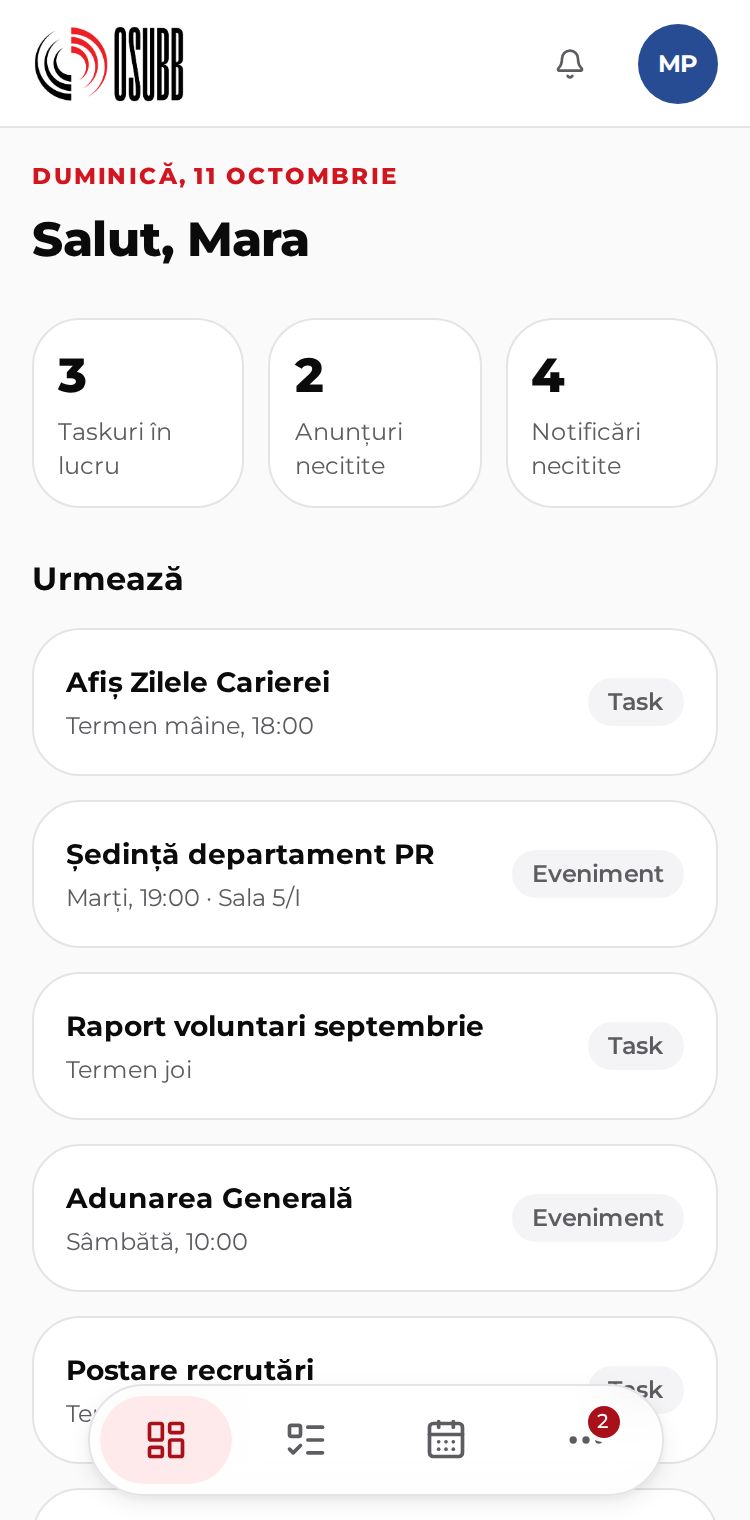
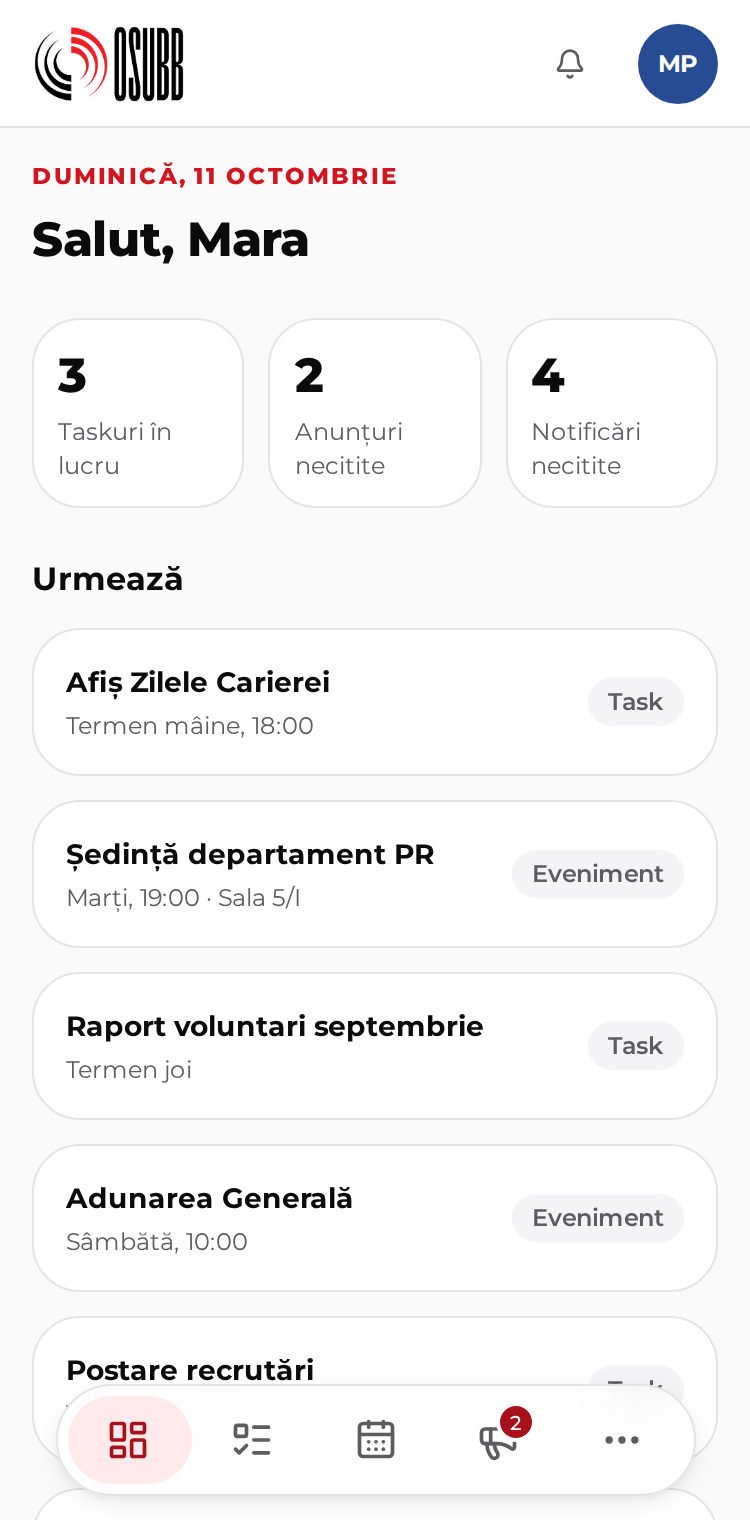
feat(app): Anunțuri keeps its place on a phone's bar
The bar is Acasă, Taskuri, Calendar, Anunțuri and Mai mult: what a member
reads stays one tap away, with its unread count on its own icon. The drawer
holds Grupuri and what the member's capabilities add. The capsule loses its
gaps so five 44 px places and the plus fit a 320 px phone.

diff --git a/app/src/components/shell/AppShell.test.tsx b/app/src/components/shell/AppShell.test.tsx
@@ -159,7 +159,7 @@ describe('AppShell', () => {
     ).toBeNull();
 
     const quick = screen.getByRole('navigation', { name: 'Navigare rapidă' });
-    expect(within(quick).getAllByRole('link')).toHaveLength(3);
+    expect(within(quick).getAllByRole('link')).toHaveLength(4);
     expect(
       within(primary).getByRole('link', { name: 'Calendar' }),
     ).toHaveAttribute('aria-current', 'page');
@@ -228,7 +228,7 @@ describe('AppShell', () => {
     ).toBeInTheDocument();
   });
 
-  it('badges Anunțuri with the unread-announcements count on the sidebar and, on a phone, on Mai mult', () => {
+  it('badges Anunțuri with the unread-announcements count on the sidebar and the mobile tab', () => {
     queries.useUnreadAnnouncementsCount.mockReturnValue({ data: 2 });
 
     renderShell();
@@ -241,12 +241,15 @@ describe('AppShell', () => {
     expect(within(entry).getByText('2 anunțuri necitite')).toBeInTheDocument();
 
     const quick = screen.getByRole('navigation', { name: 'Navigare rapidă' });
-    // Anunțuri is behind Mai mult, which carries its count.
+    const tab = within(quick).getByRole('link', {
+      name: 'Anunțuri, 2 anunțuri necitite',
+    });
+    expect(tab).toHaveAttribute('href', '/anunturi');
+    expect(tab).toHaveTextContent('2');
+    // Mai mult counts only the pages behind it.
     expect(
-      within(quick).getByRole('button', {
-        name: 'Mai mult, 2 anunțuri necitite',
-      }),
-    ).toHaveTextContent('2');
+      within(quick).getByRole('button', { name: 'Mai mult' }),
+    ).toHaveTextContent(/^Mai mult$/);
   });
 
   it('says a single unread Announcement in the singular', () => {
@@ -256,9 +259,7 @@ describe('AppShell', () => {
 
     const quick = screen.getByRole('navigation', { name: 'Navigare rapidă' });
     expect(
-      within(quick).getByRole('button', {
-        name: 'Mai mult, 1 anunț necitit',
-      }),
+      within(quick).getByRole('link', { name: 'Anunțuri, 1 anunț necitit' }),
     ).toBeInTheDocument();
   });
 
@@ -273,8 +274,8 @@ describe('AppShell', () => {
     ).toHaveTextContent(/^Anunțuri$/);
     const quick = screen.getByRole('navigation', { name: 'Navigare rapidă' });
     expect(
-      within(quick).getByRole('button', { name: 'Mai mult' }),
-    ).toHaveTextContent(/^Mai mult$/);
+      within(quick).getByRole('link', { name: 'Anunțuri' }),
+    ).toHaveTextContent(/^Anunțuri$/);
   });
 
   it('leaves the notification entry unbadged once everything is read', () => {
@@ -591,11 +592,11 @@ describe('AppShell', () => {
       'Acasă',
       'Taskuri',
       'Calendar',
+      'Anunțuri',
     ]);
-    // Everyone's pages first, then the ones a capability gives.
+    // Everyone's page first, then the ones a capability gives.
     expect(more.map((item) => item.label)).toEqual([
       'Grupuri',
-      'Anunțuri',
       'Clasament',
       'Voluntari',
       'Campanii',
@@ -610,15 +611,13 @@ describe('AppShell', () => {
         item.label,
       ).toBe(true);
 
-    // A volunteer's drawer holds the two pages everyone has.
+    // A volunteer's drawer holds the one page everyone has off the bar.
     expect(navFor(capabilities()).more.map((item) => item.label)).toEqual([
       'Grupuri',
-      'Anunțuri',
     ]);
     // Before the capabilities arrive, nothing gated is offered.
     expect(navFor(undefined).more.map((item) => item.label)).toEqual([
       'Grupuri',
-      'Anunțuri',
     ]);
   });
 
@@ -772,15 +771,20 @@ describe('phone navigation (#972)', () => {
       .getAllByRole('link')
       .map((link) => link.textContent?.replace(/\d+$/, '').trim());
 
-  it('orders the bar Acasă, Taskuri, Calendar, then Mai mult', () => {
+  it('orders the bar Acasă, Taskuri, Calendar, Anunțuri, then Mai mult', () => {
     renderShell('/');
     const quick = screen.getByRole('navigation', { name: 'Navigare rapidă' });
-    expect(captions(quick)).toEqual(['Acasă', 'Taskuri', 'Calendar']);
+    expect(captions(quick)).toEqual([
+      'Acasă',
+      'Taskuri',
+      'Calendar',
+      'Anunțuri',
+    ]);
     expect(within(quick).getByRole('link', { name: 'Acasă' })).toHaveAttribute(
       'aria-current',
       'page',
     );
-    // The last place is a button, after the three links.
+    // The last place is a button, after the four links.
     const more = within(quick).getByRole('button', { name: 'Mai mult' });
     expect(quick.querySelector('a:last-of-type')?.nextElementSibling).toBe(
       more,
@@ -826,7 +830,7 @@ describe('phone navigation (#972)', () => {
     ).toBeNull();
     expect(
       captions(screen.getByRole('navigation', { name: 'Navigare rapidă' })),
-    ).toEqual(['Acasă', 'Taskuri', 'Calendar']);
+    ).toEqual(['Acasă', 'Taskuri', 'Calendar', 'Anunțuri']);
   });
 
   it('badges Taskuri with the Requests waiting for a decision, on the bar and the sidebar', () => {
@@ -855,7 +859,7 @@ describe('phone navigation (#972)', () => {
       ...within(quick).getAllByRole('link'),
       within(quick).getByRole('button', { name: 'Mai mult' }),
     ];
-    expect(controls).toHaveLength(4);
+    expect(controls).toHaveLength(5);
     for (const control of controls) {
       expect(control.className).toMatch(/\bh-11\b/);
       expect(control.className).toMatch(/\bmin-w-11\b/);
@@ -870,7 +874,6 @@ describe('phone navigation (#972)', () => {
 
   it('opens Mai mult as a drawer of the other pages, and closes it on the way to one', async () => {
     const user = userEvent.setup();
-    queries.useUnreadAnnouncementsCount.mockReturnValue({ data: 2 });
     renderShell('/calendar');
     const quick = screen.getByRole('navigation', { name: 'Navigare rapidă' });
     expect(screen.queryByRole('dialog')).toBeNull();
@@ -883,14 +886,7 @@ describe('phone navigation (#972)', () => {
         link.textContent?.replace(/\d.*$/, ''),
         link.getAttribute('href'),
       ]),
-    ).toEqual([
-      ['Grupuri', '/grupuri'],
-      ['Anunțuri', '/anunturi'],
-    ]);
-    // A row carries its own count, in words too.
-    expect(
-      within(drawer).getByRole('link', { name: /Anunțuri/ }),
-    ).toHaveTextContent('2 anunțuri necitite');
+    ).toEqual([['Grupuri', '/grupuri']]);
     for (const link of links) expect(link.className).toMatch(/\bmin-h-12\b/);
 
     await user.click(within(drawer).getByRole('link', { name: 'Grupuri' }));
@@ -914,7 +910,7 @@ describe('phone navigation (#972)', () => {
       within(drawer)
         .getAllByRole('link')
         .map((link) => link.textContent),
-    ).toEqual(['Grupuri', 'Anunțuri', 'Clasament', 'Administrare']);
+    ).toEqual(['Grupuri', 'Clasament', 'Administrare']);
     expect(
       within(drawer).getByRole('link', { current: 'page' }),
     ).toHaveTextContent('Administrare');

diff --git a/app/src/components/shell/TabBar.tsx b/app/src/components/shell/TabBar.tsx
@@ -21,8 +21,8 @@ const tabClass =
 
 /**
  * The phone's navigation (2026-10-11): a capsule floating over the foot of
- * the page with the member's three places and **Mai mult**, which opens the
- * drawer of every other page (`MoreDrawer`). All four are icons, each with
+ * the page with the member's four places and **Mai mult**, which opens the
+ * drawer of every other page (`MoreDrawer`). All five are icons, each with
  * its name for a screen reader; a tinted thumb slides to the current one —
  * or to Mai mult, on a page from its drawer. The page's plus button stands
  * beside the capsule (the shell's bottom bar), the one solid red thing here.
@@ -92,11 +92,12 @@ export function TabBar({
     <nav
       aria-label="Navigare rapidă"
       data-slot="tab-bar"
-      className="max-w-72 min-w-0 flex-1 lg:hidden"
+      className="max-w-80 min-w-0 flex-1 lg:hidden"
     >
       <div
         ref={bar}
-        className="relative flex gap-1 rounded-full border border-border bg-card/80 p-[5px] shadow-(--sh-md) backdrop-blur-md"
+        // No gap: five 44 px places and the plus just fit a 320 px phone.
+        className="relative flex rounded-full border border-border bg-card/80 p-[5px] shadow-(--sh-md) backdrop-blur-md"
       >
         {thumb && (
           <span
@@ -154,11 +155,11 @@ export function TabBar({
 
 /**
  * **Mai mult**, the phone bar's last place: a drawer that rises from the foot
- * of the screen with every page the bar itself does not hold (Grupuri,
- * Anunțuri, and what the viewer's capabilities add), one row each. A row
+ * of the screen with every page the bar itself does not hold (Grupuri, and
+ * what the viewer's capabilities add), one row each. A row
  * opens its page and the drawer closes; so does a swipe down, a tap outside
- * or Escape. The button carries the counts of the pages behind it, so an
- * unread Announcement is seen without opening the drawer.
+ * or Escape. The button carries the counts of the pages behind it, so one
+ * is seen without opening the drawer.
  */
 function MoreDrawer({
   items,

diff --git a/app/src/components/shell/navItems.ts b/app/src/components/shell/navItems.ts
@@ -149,18 +149,18 @@ export function isNavItemActive(item: NavItem, pathname: string): boolean {
 }
 
 /**
- * The phone bar's three places, in order: Acasă, then the two things a
- * volunteer opens the app for. Everything else is one tap further, in the
- * bar's Mai mult drawer; Notificări and Profil live in the top bar.
+ * The phone bar's four places, in order: Acasă, the two things a volunteer
+ * opens the app for, and what they read. Everything else is one tap further,
+ * in the bar's Mai mult drawer; Notificări and Profil live in the top bar.
  */
-export const TAB_ORDER = ['/', TRACKER_PATH, '/calendar'];
+export const TAB_ORDER = ['/', TRACKER_PATH, '/calendar', ANNOUNCEMENTS_PATH];
 
 /**
  * What one viewer's navigation holds, decided once so the bar and its drawer
  * cannot disagree: `visible`, every entry they may open (the desktop
- * sidebar); `tabs`, the phone bar's three; and `more`, the entries a phone
+ * sidebar); `tabs`, the phone bar's four; and `more`, the entries a phone
  * shows on neither the bar nor the top bar — the Mai mult drawer lists them,
- * everyone's pages (Grupuri, Anunțuri) before the ones a capability gives.
+ * everyone's page (Grupuri) before the ones a capability gives.
  */
 export function navFor(capabilities: Capabilities | undefined): {
   visible: NavItem[];

diff --git a/app/src/components/shell/AppShell.tsx b/app/src/components/shell/AppShell.tsx
@@ -240,7 +240,7 @@ export default function AppShell() {
   // The Board Title when the Member holds one (#963), else the Role's name.
   const roleLabel = useMyRoleLabel();
 
-  // What the viewer may open, the phone bar's three, and the pages behind
+  // What the viewer may open, the phone bar's four, and the pages behind
   // its Mai mult (`navFor`).
   const { visible, tabs, more } = navFor(capabilities.data);
   const denied = deniedMessage(location.state);

diff --git a/app/README.md b/app/README.md
@@ -87,7 +87,7 @@ app/
     │   └── reference.ts    # departments/roles lookups for display
     ├── components/
     │   ├── ui/             # locally owned shadcn Base UI/Nova primitives
-    │   ├── shell/          # AppShell.tsx, navItems.ts — one list drives sidebar/topbar/tab bar; on a phone the top bar holds the bell and the avatar (Notificări, Profil), the bar Acasă · Taskuri · Calendar · Mai mult, whose drawer lists the rest, with the page's plus button beside it
+    │   ├── shell/          # AppShell.tsx, navItems.ts — one list drives sidebar/topbar/tab bar; on a phone the top bar holds the bell and the avatar (Notificări, Profil), the bar Acasă · Taskuri · Calendar · Anunțuri · Mai mult, whose drawer lists the rest, with the page's plus button beside it
     │   ├── states/         # Loading, Empty, ErrorState — every query renders all three (+ test)
     │   └── work-filter/    # WorkFilter: Grup principal → Subgrup → Campanie → dates, with chips (+ test)
     ├── screens/

diff --git a/DESIGN.md b/DESIGN.md
@@ -169,9 +169,9 @@ dates in a column) use tabular figures. Uppercase micro-labels are not used.
   content width 1240 px, or 768 px for a reading page. Blocks stack 24 px
   apart; a page never sets its own padding or max width.
 - **Navigation.** On a phone: a capsule floating over the foot of the page
-  with three places — Acasă, Taskuri, Calendar — and Mai mult, all icons. A
-  tinted thumb slides to the current one. Mai mult opens a drawer from the
-  foot of the screen with every other page (Grupuri, Anunțuri, and what the
+  with four places — Acasă, Taskuri, Calendar, Anunțuri — and Mai mult, all
+  icons. A tinted thumb slides to the current one. Mai mult opens a drawer
+  from the foot of the screen with every other page (Grupuri, and what the
   member's capabilities add), and carries their counts; on one of those
   pages the thumb stands on Mai mult. Notificări and Profil are in the top
   bar. There is no hamburger, and no second list of pages on Acasă. From
